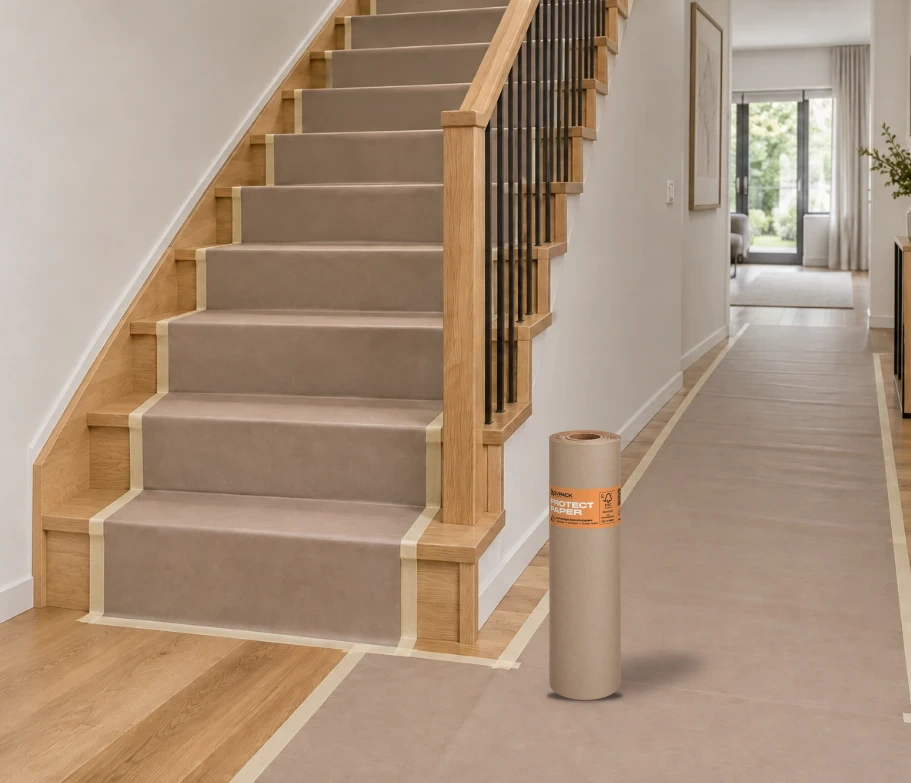
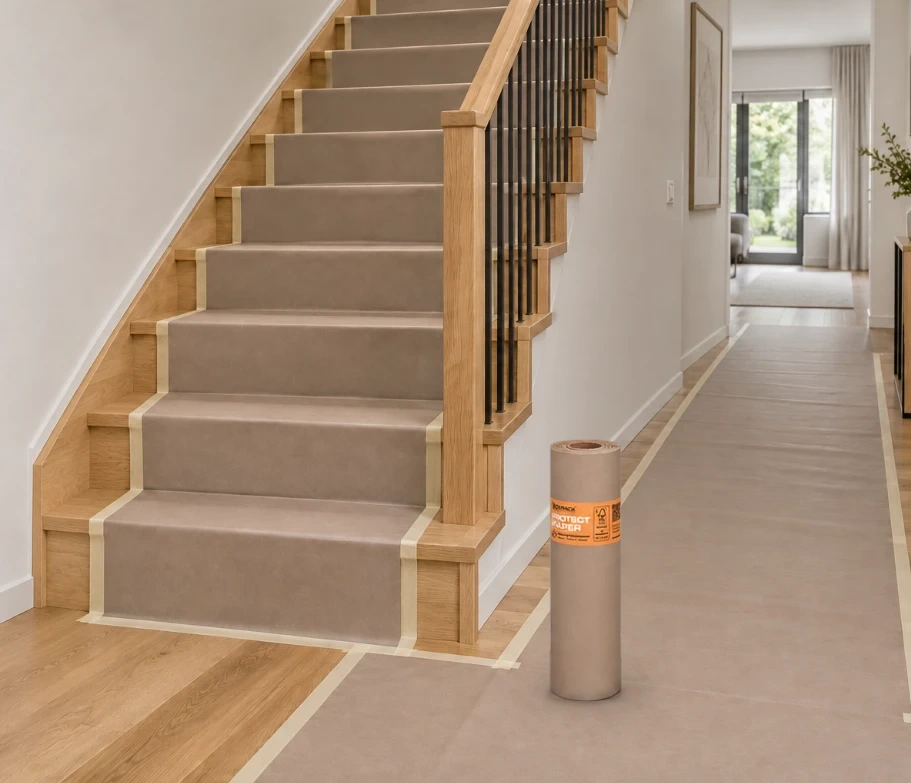
PROTECT Paper stairs photo: the roll by the stairs is now the photographed roll from the painting photo (same camera angle and light), with a soft contact shadow

Changed region(s): [[0.584, 0.613, 0.7069, 0.705], [0.6762, 0.8276, 0.7684, 0.8889], [0.584, 0.5517, 0.6762, 0.5824]]

diff --git a/de/produkte/bodenschutzpapier.html b/de/produkte/bodenschutzpapier.html
@@ -492,7 +492,7 @@
                     <div class="kovpack-pdp__deck">
                         <div class="kovpack-pdp__card" data-pdp-gallery-card><img alt="KOVPACK-PROTECT Paper als Rolle auf einem mit Papier abgedeckten Boden bei Malerarbeiten" src="../../fileadmin/user_upload/products/kovpack-floor-protection-paper.webp?v=bed776c6" width="1254" height="1254" /></div>
                         <div class="kovpack-pdp__card" data-pdp-gallery-card><img alt="Monteur baut Küchenschränke auf einem mit PROTECT Paper abgedeckten Boden ein" src="../../fileadmin/user_upload/products/kovpack-floor-protection-kitchen.webp?v=4878928b" width="1536" height="1024" loading="lazy" decoding="async" /></div>
-                        <div class="kovpack-pdp__card" data-pdp-gallery-card><img alt="Treppe und Flur mit PROTECT Paper abgedeckt und abgeklebt" src="../../fileadmin/user_upload/products/kovpack-floor-protection-stairs.webp?v=f888e420" width="911" height="783" loading="lazy" decoding="async" /></div>
+                        <div class="kovpack-pdp__card" data-pdp-gallery-card><img alt="Treppe und Flur mit PROTECT Paper abgedeckt und abgeklebt" src="../../fileadmin/user_upload/products/kovpack-floor-protection-stairs.webp?v=2728c3da" width="911" height="783" loading="lazy" decoding="async" /></div>
                         <div class="kovpack-pdp__card" data-pdp-gallery-card><img alt="Malerin streicht eine Wand, der Boden ist mit PROTECT Paper geschützt" src="../../fileadmin/user_upload/products/kovpack-floor-protection-painting.webp?v=50db5aca" width="1536" height="1024" loading="lazy" decoding="async" /></div>
                     </div>
                     <div class="kovpack-pdp__gallery-nav" hidden>
@@ -601,7 +601,7 @@
                     </li>
                     <li class="kovpack-pdp__video">
                         <div class="kovpack-pdp__video-frame kovpack-pdp__video-frame--preview">
-                            <img class="kovpack-pdp__video-poster" src="../../fileadmin/user_upload/products/kovpack-floor-protection-stairs.webp?v=f888e420" alt="" width="911" height="783" loading="lazy" decoding="async" />
+                            <img class="kovpack-pdp__video-poster" src="../../fileadmin/user_upload/products/kovpack-floor-protection-stairs.webp?v=2728c3da" alt="" width="911" height="783" loading="lazy" decoding="async" />
                             <span class="kovpack-pdp__video-play" aria-hidden="true"></span>
                             <span class="kovpack-pdp__video-soon">Video folgt</span>
                         </div>

diff --git a/en/products/floor-protection-paper.html b/en/products/floor-protection-paper.html
@@ -492,7 +492,7 @@
                     <div class="kovpack-pdp__deck">
                         <div class="kovpack-pdp__card" data-pdp-gallery-card><img alt="KOVPACK floor protection paper roll on a paper-covered floor during painting work" src="../../fileadmin/user_upload/products/kovpack-floor-protection-paper.webp?v=bed776c6" width="1254" height="1254" /></div>
                         <div class="kovpack-pdp__card" data-pdp-gallery-card><img alt="Fitter installing kitchen cabinets on a floor covered with PROTECT Paper" src="../../fileadmin/user_upload/products/kovpack-floor-protection-kitchen.webp?v=4878928b" width="1536" height="1024" loading="lazy" decoding="async" /></div>
-                        <div class="kovpack-pdp__card" data-pdp-gallery-card><img alt="Stairs and hallway covered and taped with PROTECT Paper" src="../../fileadmin/user_upload/products/kovpack-floor-protection-stairs.webp?v=f888e420" width="911" height="783" loading="lazy" decoding="async" /></div>
+                        <div class="kovpack-pdp__card" data-pdp-gallery-card><img alt="Stairs and hallway covered and taped with PROTECT Paper" src="../../fileadmin/user_upload/products/kovpack-floor-protection-stairs.webp?v=2728c3da" width="911" height="783" loading="lazy" decoding="async" /></div>
                         <div class="kovpack-pdp__card" data-pdp-gallery-card><img alt="Painter rolling a wall while PROTECT Paper protects the floor" src="../../fileadmin/user_upload/products/kovpack-floor-protection-painting.webp?v=50db5aca" width="1536" height="1024" loading="lazy" decoding="async" /></div>
                     </div>
                     <div class="kovpack-pdp__gallery-nav" hidden>
@@ -600,7 +600,7 @@
                     </li>
                     <li class="kovpack-pdp__video">
                         <div class="kovpack-pdp__video-frame kovpack-pdp__video-frame--preview">
-                            <img class="kovpack-pdp__video-poster" src="../../fileadmin/user_upload/products/kovpack-floor-protection-stairs.webp?v=f888e420" alt="" width="911" height="783" loading="lazy" decoding="async" />
+                            <img class="kovpack-pdp__video-poster" src="../../fileadmin/user_upload/products/kovpack-floor-protection-stairs.webp?v=2728c3da" alt="" width="911" height="783" loading="lazy" decoding="async" />
                             <span class="kovpack-pdp__video-play" aria-hidden="true"></span>
                             <span class="kovpack-pdp__video-soon">Video coming soon</span>
                         </div>
